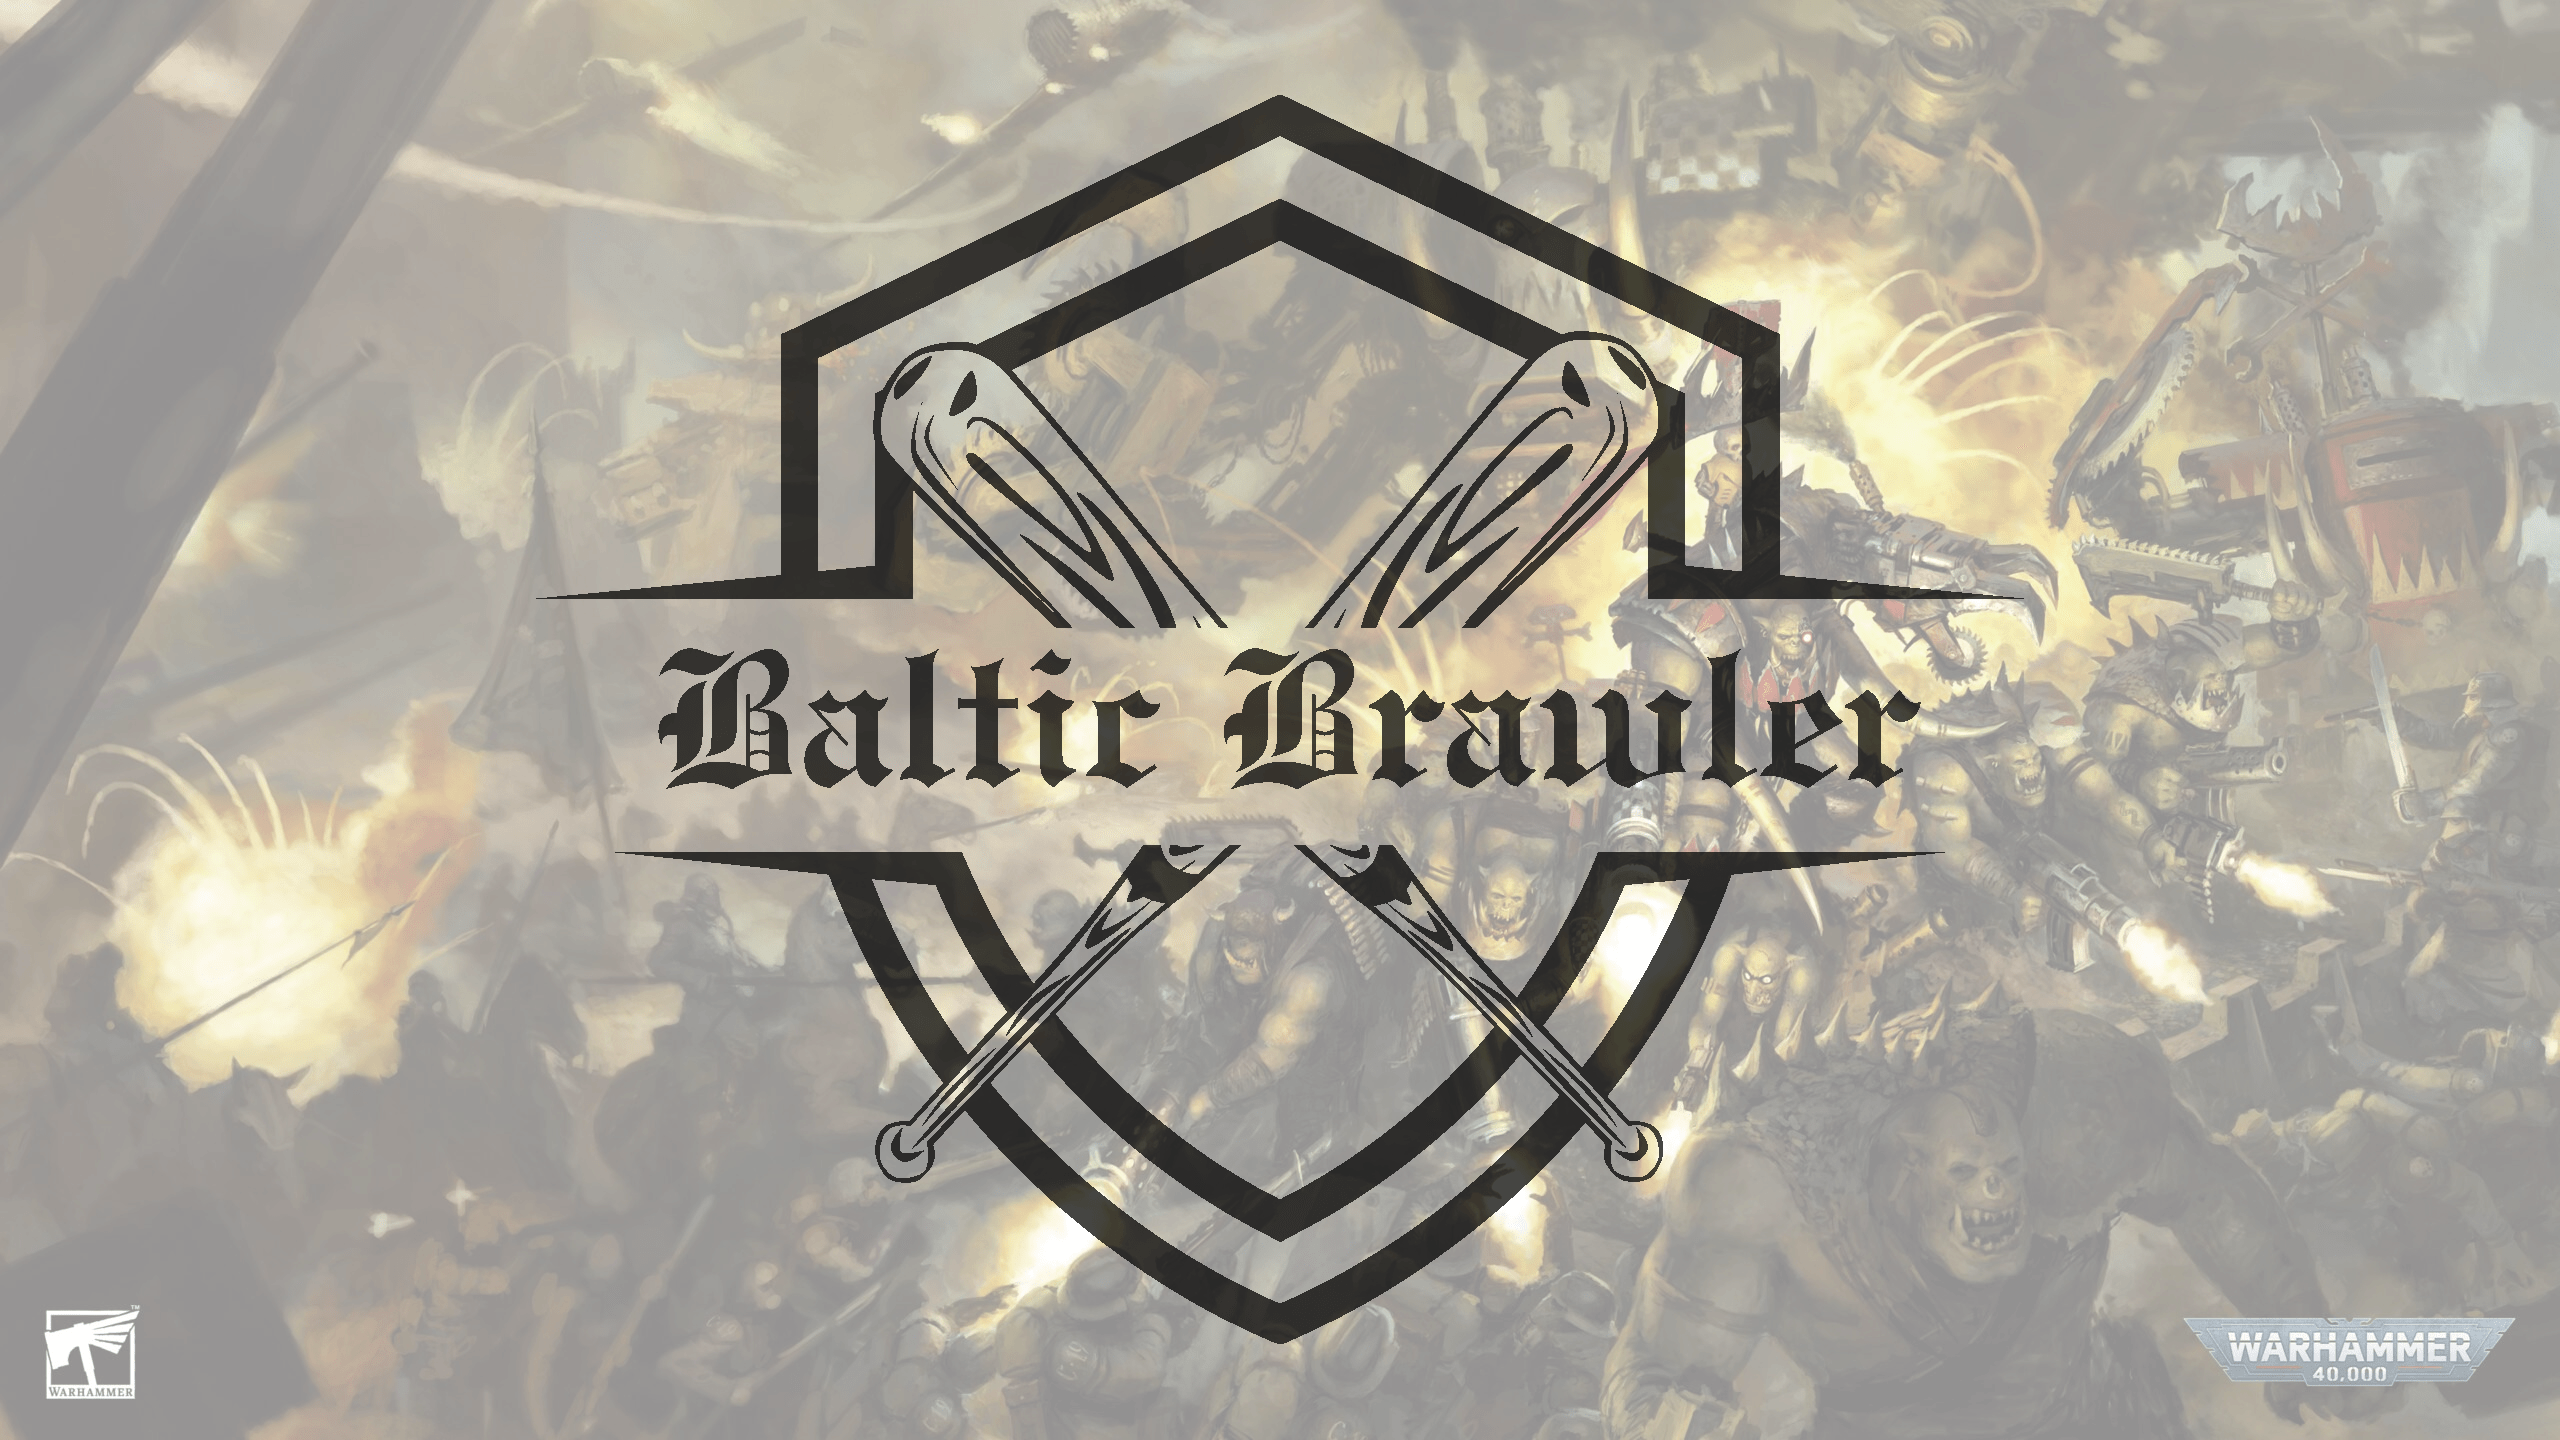
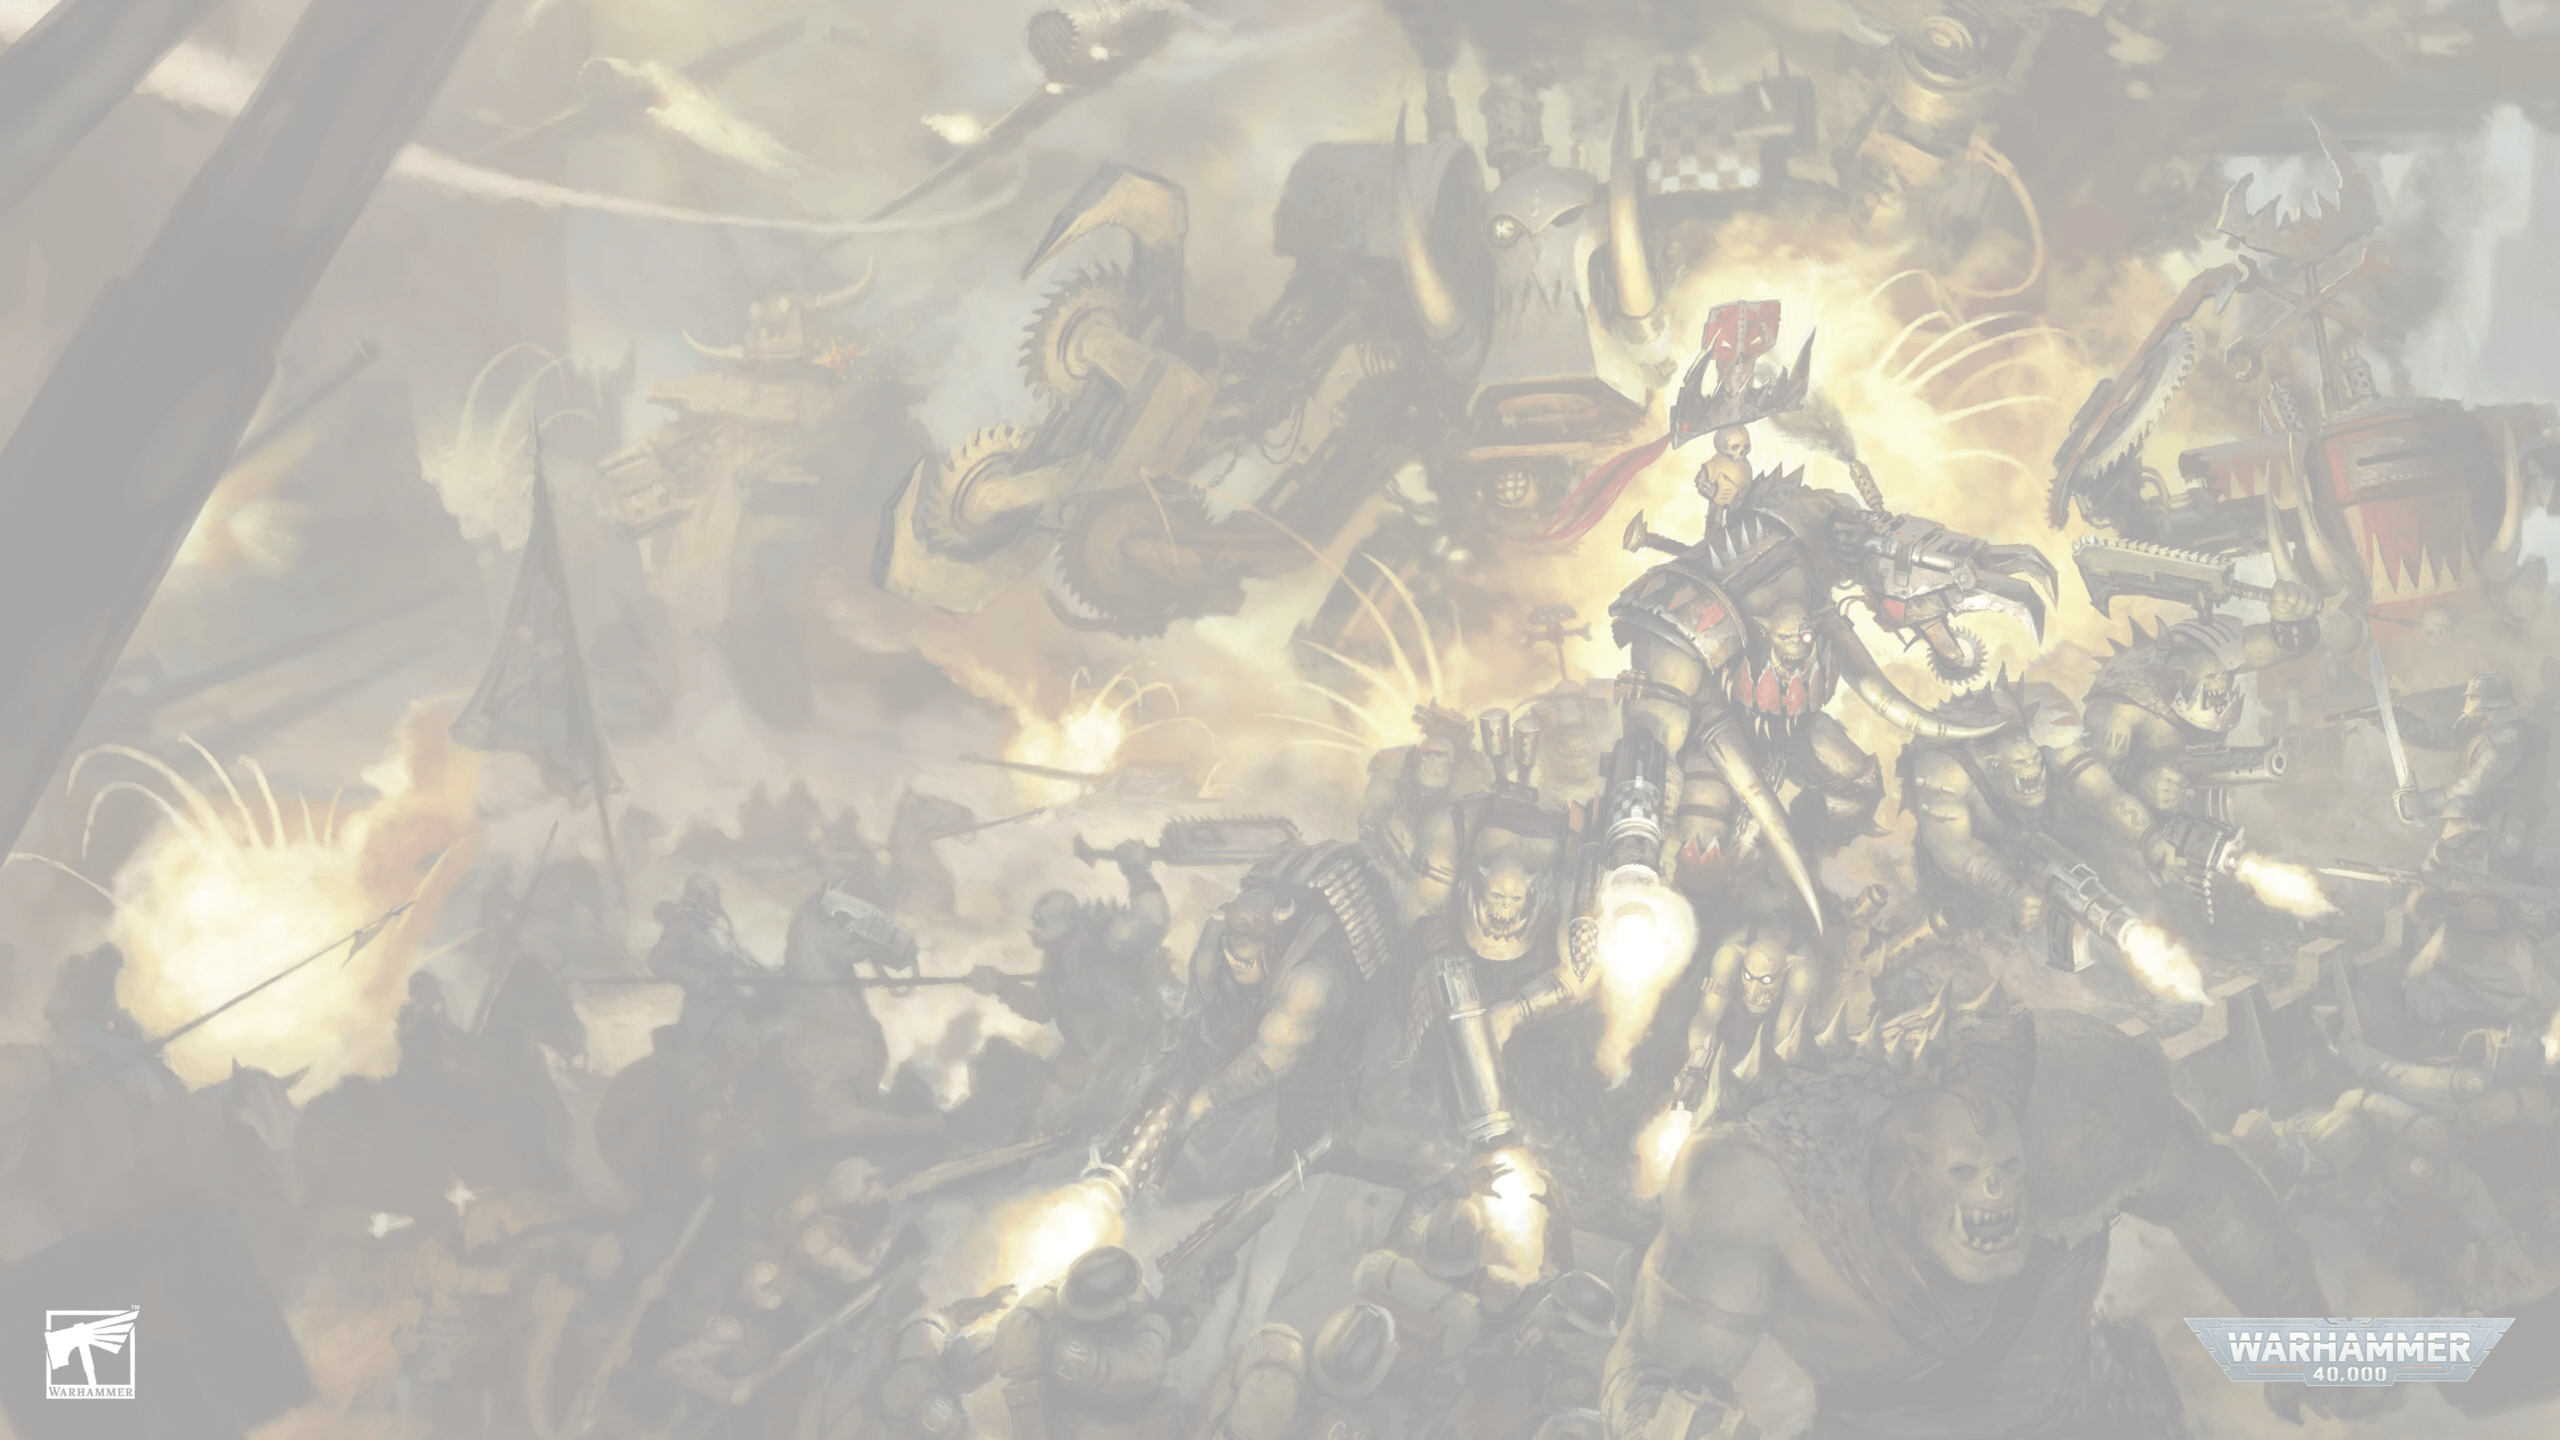
Release 1.0

Changed region(s): [[0.2188, 0.0625, 0.7812, 0.9375]]

diff --git a/balticbrawler/src/MainPage.tsx b/balticbrawler/src/MainPage.tsx
@@ -1,4 +1,4 @@
-import { CasinoOutlined, Close, Menu } from "@mui/icons-material";
+import { ArrowDropDown, Close } from "@mui/icons-material";
 import {
     AppBar,
     Box,
@@ -11,6 +11,7 @@ import {
 import { Outlet, useNavigate } from "react-router-dom";
 import bbImageWhite from "/Logo_white.png";
 import backgroundImage from "/Orks_background.png";
+import backgroundLogo from "/Logo_transparent.png";
 import { useEffect, useState } from "react";
 
 function MainPage() {
@@ -35,9 +36,17 @@ function MainPage() {
         // { icon: <Home />, title: "Test", page: "test" },
         // { icon: <Home />, title: "Start", page: "start" },
         {
-            icon: <CasinoOutlined />,
+            title: "News",
+            page: "news",
+        },
+        {
             title: "Beach Clash",
             page: "turnier",
+        },
+        {
+            // icon: < />,
+            title: "Location",
+            link: "https://www.weissenhaeuserstrand.de/tagungshotel-ostsee/tagungsraeume-strandhotel/",
         },
         {
             // icon: < />,
@@ -135,7 +144,13 @@ function MainPage() {
                         role="presentation"
                     >
                         {/* <LogoIcon sx={{ fontSize: 100, color: "#FFFFFF" }} /> */}
-                        <img src={bbImageWhite} width={iconHeaderWidth} />
+                        <img
+                            src={bbImageWhite}
+                            width={iconHeaderWidth}
+                            style={{
+                                margin: 12,
+                            }}
+                        />
 
                         <Box flexGrow={1}>
                             <Box
@@ -148,17 +163,24 @@ function MainPage() {
                                     .filter(
                                         (x) =>
                                             !isMobile ||
-                                            window.location.pathname ==
+                                            (window.location.pathname === "/" &&
+                                                x.page === "turnier") ||
+                                            window.location.pathname ===
                                                 "/" + x.page
                                     )
                                     .map((item) => (
                                         <Button
+                                            href={item.link}
                                             onClick={() => {
                                                 if (isMobile) {
                                                     setOpen(true);
                                                     return;
                                                 }
-                                                navigate("/" + item.page);
+                                                if (item.page) {
+                                                    navigate("/" + item.page);
+                                                } else if (item.link) {
+                                                    window.open(item.link);
+                                                }
                                                 setOpen(false);
                                             }}
                                         >
@@ -170,6 +192,9 @@ function MainPage() {
                                                 <Typography m={1}>
                                                     {item.title}
                                                 </Typography>
+                                                {isMobile && (
+                                                    <ArrowDropDown></ArrowDropDown>
+                                                )}
                                             </Box>
                                         </Button>
 
@@ -184,18 +209,14 @@ function MainPage() {
                                     ))}
                             </Box>
                         </Box>
-                        <img src={bbImageWhite} width={iconHeaderWidth} />
+                        <img
+                            src={bbImageWhite}
+                            width={iconHeaderWidth}
+                            style={{
+                                margin: 12,
+                            }}
+                        />
 
-                        {isMobile && (
-                            <IconButton
-                                sx={{ mx: 1 }}
-                                edge="start"
-                                color="primary"
-                                onClick={() => setOpen(true)}
-                            >
-                                <Menu />
-                            </IconButton>
-                        )}
                         {/* <Divider color={colors.grey[50]} /> */}
                     </Box>
                 </AppBar>
@@ -203,7 +224,6 @@ function MainPage() {
             <Box
                 display="flex"
                 flexGrow={1}
-                paddingTop={10}
                 style={{
                     backgroundImage: `url(${backgroundImage})`,
                     backgroundRepeat: "no-repeat",
@@ -212,7 +232,24 @@ function MainPage() {
                     backgroundAttachment: "fixed",
                 }}
             >
-                <Outlet />
+                <Box
+                    display="flex"
+                    flexGrow={1}
+                    paddingTop={10}
+                    style={{
+                        backgroundImage: `url(${backgroundLogo})`,
+                        backgroundRepeat: "no-repeat",
+                        backgroundPosition: "center",
+                        backgroundSize:
+                            window.visualViewport!.height <
+                            window.visualViewport!.width
+                                ? window.visualViewport?.height
+                                : window.visualViewport?.width,
+                        backgroundAttachment: "fixed",
+                    }}
+                >
+                    <Outlet />
+                </Box>
             </Box>
         </Box>
     );

diff --git a/balticbrawler/src/News.tsx b/balticbrawler/src/News.tsx
@@ -1,0 +1,53 @@
+import { Box, Card, Typography } from "@mui/material";
+
+function News() {
+    const news = [
+        {
+            date: "18.10.2024",
+            content: (
+                <Typography>
+                    <Typography display="block">
+                        So Leute, wir haben heute für alle Tische Matten mit
+                        Aufstellungszonen geordert, damit es euch wirklich an
+                        nix fehlt und ihr maximal verwöhnt werdet. Ihr braucht
+                        also weder Marker mitbringen oder platzieren, noch das
+                        Gelände umbauen. Und jeder wird auf einer Matte mit
+                        Aufstellungszonen spielen. Wir versuchen euch einfach
+                        den maximalen Spielspaß zu verschaffen 🤗.
+                    </Typography>
+                    <Typography display="block" marginTop={1}>
+                        Also meldet euch an, wenn ihr es noch nicht seid und
+                        empfehlt uns gerne weiter ✌
+                    </Typography>
+                </Typography>
+            ),
+        },
+    ];
+    return (
+        <Box>
+            {news.map((x) => (
+                <Card
+                    variant="outlined"
+                    sx={{
+                        display: "flex",
+                        flexGrow: 1,
+                        margin: 1,
+                        marginTop: 4,
+                        paddingX: 4,
+                        paddingY: 2,
+                        backgroundColor: "#333333AA",
+                    }}
+                >
+                    <Box>
+                        <Typography variant="h5" margin={2}>
+                            {x.date}
+                        </Typography>
+                        <Typography marginBottom={2}>{x.content}</Typography>
+                    </Box>
+                </Card>
+            ))}
+        </Box>
+    );
+}
+
+export default News;

diff --git a/balticbrawler/src/Tournaments.tsx b/balticbrawler/src/Tournaments.tsx
@@ -137,7 +137,17 @@ function Tournaments() {
                                             </IconButton>
                                         </ListItemAvatar>
                                         <ListItemText
-                                            primary={x.contentHeader}
+                                            primary={
+                                                <>
+                                                    {x.link ? (
+                                                        <Link>
+                                                            {x.contentHeader}
+                                                        </Link>
+                                                    ) : (
+                                                        x.contentHeader
+                                                    )}
+                                                </>
+                                            }
                                             secondary={x.content}
                                             secondaryTypographyProps={{
                                                 color: "grey",

diff --git a/balticbrawler/src/App.tsx b/balticbrawler/src/App.tsx
@@ -7,10 +7,10 @@ import {
 } from "@mui/material";
 
 import { RouterProvider, createBrowserRouter } from "react-router-dom";
-import StartPage from "./StartPage";
 import MainPage from "./MainPage";
 import Tournaments from "./Tournaments";
 import Sponsors from "./Sponsors";
+import News from "./News";
 
 function App() {
     const router = createBrowserRouter([
@@ -27,8 +27,8 @@ function App() {
                     element: <Typography>Home</Typography>,
                 },
                 {
-                    path: "/start",
-                    element: <StartPage />,
+                    path: "/news",
+                    element: <News />,
                 },
                 {
                     path: "/turnier",

diff --git a/balticbrawler/src/Sponsors.tsx b/balticbrawler/src/Sponsors.tsx
@@ -1,4 +1,4 @@
-import { Box, Card, Link } from "@mui/material";
+import { Box, Card, Link, Typography } from "@mui/material";
 import UrbanArtworkIcon from "/urban_artworx_logo.avif";
 import WarfactorIcon from "/warfactor_logo.png";
 
@@ -19,11 +19,15 @@ function Sponsors() {
         <Card
             sx={{
                 display: "flex",
+                flexDirection: "column",
                 flexGrow: 1,
                 margin: 1,
                 backgroundColor: "#333333AA",
             }}
         >
+            <Typography variant="h4" fontWeight="bold" margin={4}>
+                Sponsoren
+            </Typography>
             <Box
                 flex={1}
                 alignContent="center"

diff --git a/balticbrawler/index.html b/balticbrawler/index.html
@@ -1,12 +1,14 @@
-<!doctype html>
+<!DOCTYPE html>
 <html lang="en">
-  <head>
-    <meta charset="UTF-8" />
-    <meta name="viewport" content="width=device-width, initial-scale=1.0" />
-    <title>Baltic Brawler</title>
-  </head>
-  <body>
-    <div id="root"></div>
-    <script type="module" src="/src/main.tsx"></script>
-  </body>
+    <head>
+        <meta charset="UTF-8" />
+        <link rel="icon" href="/public/Logo_white.png" />
+        <meta name="viewport" content="width=device-width, initial-scale=1.0" />
+        <title>Beach Clash</title>
+    </head>
+    <body>
+        <div id="root"></div>
+        <script type="module" src="/src/main.tsx"></script>
+    </body>
 </html>
+
